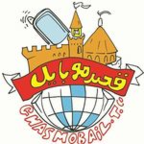
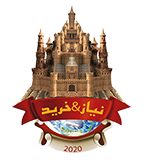
update name gasrmobile in niaz kala

diff --git a/GhasreMobile/wwwroot/js/main.js b/GhasreMobile/wwwroot/js/main.js
@@ -45,7 +45,7 @@ window.addEventListener("load", () => {
     })
 })
 
-function share(url, title = "قصر موبایل", text = "فروشگاه موبایل قصر موبایل") {
+function share(url, title = "نیاز کالا", text = "فروشگاه موبایل نیاز کالا") {
 
     if (navigator.share) {
         navigator.share({

diff --git a/GhasreMobile/Areas/User/Controllers/WalletController.cs b/GhasreMobile/Areas/User/Controllers/WalletController.cs
@@ -19,7 +19,7 @@ namespace GhasreMobile.Areas.User.Controllers
     public class WalletController : Controller
     {
         // readonly string Domain = "https://localhost:44371";
-        readonly string Domain = "https://gasremobile2004.com";
+        readonly string Domain = "https://Nkaala.com";
 
 
         Core db = new Core();
@@ -76,7 +76,7 @@ namespace GhasreMobile.Areas.User.Controllers
                     db.Save();
 
                     //توضیحات مورد نیاز پرداخت
-                    var description = "قصر موبایل";
+                    var description = "نیاز کالا";
                     //آدرس برگشت از بانک به سایت
                     var returnurl = Domain + "/ShopCart/OnlinePayment/";
                     //مبلغ پرداخت
@@ -163,7 +163,7 @@ namespace GhasreMobile.Areas.User.Controllers
                 db.Save();
 
                 //توضیحات مورد نیاز پرداخت
-                var description = "قصر موبایل";
+                var description = "نیاز کالا";
                 //آدرس برگشت از بانک به سایت
                 var returnurl = Domain + "/ShopCart/OnlinePayment/";
                 //مبلغ پرداخت

diff --git a/DataLayer/Models/GhasreMobileContext.cs b/DataLayer/Models/GhasreMobileContext.cs
@@ -60,12 +60,12 @@ namespace DataLayer.Models
                 protected override void OnConfiguring(DbContextOptionsBuilder optionsBuilder)
 => optionsBuilder
 .UseLazyLoadingProxies()
-.UseSqlServer("Data Source=185.55.224.183;Initial Catalog=asamedc1_gasremobile;User ID=asamedc1_Yanal3;Password=2fjS9CYVYkgS5V8");
+.UseSqlServer("Data Source=185.55.224.209;Initial Catalog=nkaalaco_Nkala;User ID=nkaalaco_Yanal;Password=wqI9#42a");
 //        protected override void OnConfiguring(DbContextOptionsBuilder optionsBuilder)
 //        {
 //            if (!optionsBuilder.IsConfigured)
 //            {
-//#warning To protect potentially sensitive information in your connection string, you should move it out of source code. See http://go.microsoft.com/fwlink/?LinkId=723263 for guidance on storing connection strings.
+//#warning To protect potentially sensitive information in your connection string, y    ou should move it out of source code. See http://go.microsoft.com/fwlink/?LinkId=723263 for guidance on storing connection strings.
 //                optionsBuilder.UseSqlServer("Data Source=185.55.224.183;Initial Catalog=asamedc1_gasremobile;User ID=asamedc1_Yanal3;Password=2fjS9CYVYkgS5V8");
 //            }
 //        }

diff --git a/GhasreMobile/Areas/Admin/Controllers/ProductController.cs b/GhasreMobile/Areas/Admin/Controllers/ProductController.cs
@@ -528,7 +528,7 @@ namespace GhasreMobile.Areas.Admin.Controllers
                         {
                             try
                             {
-                                await Sms.SendSms2(item.Client.TellNo, item.Product.Name.Replace(" ", "-").Replace("/", "-"), "https://gasremobile2004.com/Product/" + item.ProductId + "/" + item.Product.Name.Replace(" ", "-").Replace("/", "-"), "GhasrMobileAlertWhenReady");
+                                await Sms.SendSms2(item.Client.TellNo, item.Product.Name.Replace(" ", "-").Replace("/", "-"), "https://Nkaala.com/Product/" + item.ProductId + "/" + item.Product.Name.Replace(" ", "-").Replace("/", "-"), "GhasrMobileAlertWhenReady");
                                 _core.AlertWhenReady.Delete(item);
                                 _core.Save();
                             }

diff --git a/GhasreMobile/Areas/Admin/Controllers/AdController.cs b/GhasreMobile/Areas/Admin/Controllers/AdController.cs
@@ -19,7 +19,7 @@ namespace GhasreMobile.Areas.Admin.Controllers
         Core _core = new Core();
         public IActionResult Index(int page = 1)
         {
-            IEnumerable<TblAd> ads = PagingList.Create(_core.Ad.Get(a => a.AdId != 18).OrderByDescending(o => o.AdId), 30, page);
+            IEnumerable<TblAd> ads = PagingList.Create(_core.Ad.Get().OrderByDescending(o => o.AdId), 30, page);
             return View(ads);
         }
 
